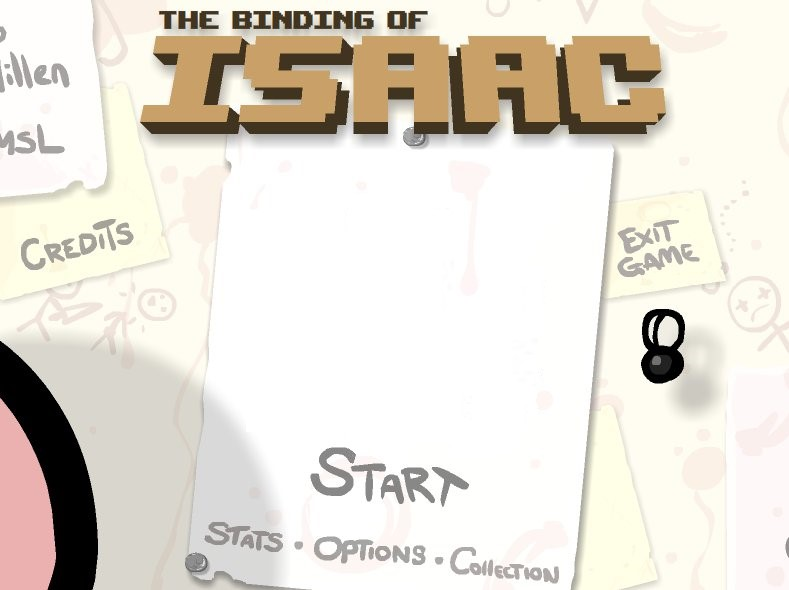
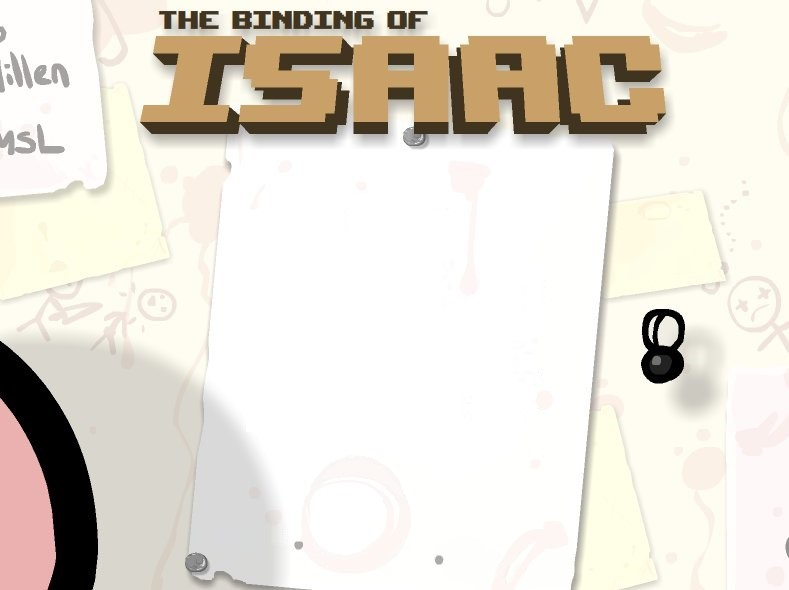
worked on button pictures

diff --git a/src/app/TitleScreen.java b/src/app/TitleScreen.java
@@ -12,19 +12,25 @@ import java.io.FileInputStream;
 import java.io.IOException;
 import java.io.InputStream;
 
+import java.awt.image.BufferedImage;
+
 /**
  * MainScreen of the App
  */
 public class TitleScreen extends DisplayScreen {
 
     private final BufferedImageLoader background;
-    private Font font;
+    private Button btnStart;
+    //private Font font;
 
     public TitleScreen(JFrame frame, GameValues gameValues) {
         super(frame);
         background = new BufferedImageLoader(gameValues.mainMenuFile);
+        SpriteSheet buttons = new SpriteSheet(gameValues.mainMenuButtons);
+        //TODO fix this position and finish up the others
+        btnStart = new Button(buttons.grabImage(0, 0, 1, 1, gameValues.menuButtonSize), 200, 200);
 
-        font = setFont(gameValues);
+        //font = setFont(gameValues);
     }
 
     private Font setFont(GameValues gameValues) {
@@ -44,6 +50,7 @@ public class TitleScreen extends DisplayScreen {
     @Override
     void render(Graphics g) {
         g.drawImage(background.getImage(), 0, 0, mainGUI.getContentPane().getWidth(), mainGUI.getContentPane().getHeight(), null);
+        btnStart.render(g);
         //g.setFont(font);
         //g.drawString("START", mainGUI.getContentPane().getWidth()/2 - 60, (int)(mainGUI.getContentPane().getHeight()*.75));
     }

diff --git a/src/app/Button.java b/src/app/Button.java
@@ -1,0 +1,31 @@
+package app;
+
+import java.awt.image.BufferedImage;
+import java.awt.Point;
+import java.awt.Graphics;
+
+/**
+ * Button
+ */
+public class Button {
+    BufferedImage image;
+    Point pos;
+
+    public Button(BufferedImage img, int x, int y) {
+        image = img;
+        pos = new Point(x, y);
+    }
+
+    public Button(BufferedImage img, Point p) {
+        image = img;
+        pos = p;
+    }
+
+    public void render(Graphics g) {
+        //g.drawImage(image, pos.getX(), pos.getY(), null);
+        g.drawImage(image, (int)pos.getX(), (int)pos.getY(), null);
+    }
+
+
+    
+}

diff --git a/src/app/GameValues.java b/src/app/GameValues.java
@@ -23,6 +23,9 @@ public class GameValues {
     public final String mainMenuFile = "bin//emptyMainMenu.jpg";
     public final String gameFontFile = "bin/MainScreenFont.ttf";
 
+    public final String mainMenuButtons = "bin/MenuButtonsSpriteSheet.png";
+    public final int menuButtonSize = 160;
+
 
     public GameState gameState = GameState.NOTSTARTED;
     public DisplayScreen currentScreen;

diff --git a/src/app/SpriteSheet.java b/src/app/SpriteSheet.java
@@ -1,8 +1,6 @@
 package app;
 
 import java.awt.image.BufferedImage;
-import java.io.IOException;
-import javax.imageio.ImageIO;
 
 /**
  * SpriteSheet, deals with all the pictures for the game
